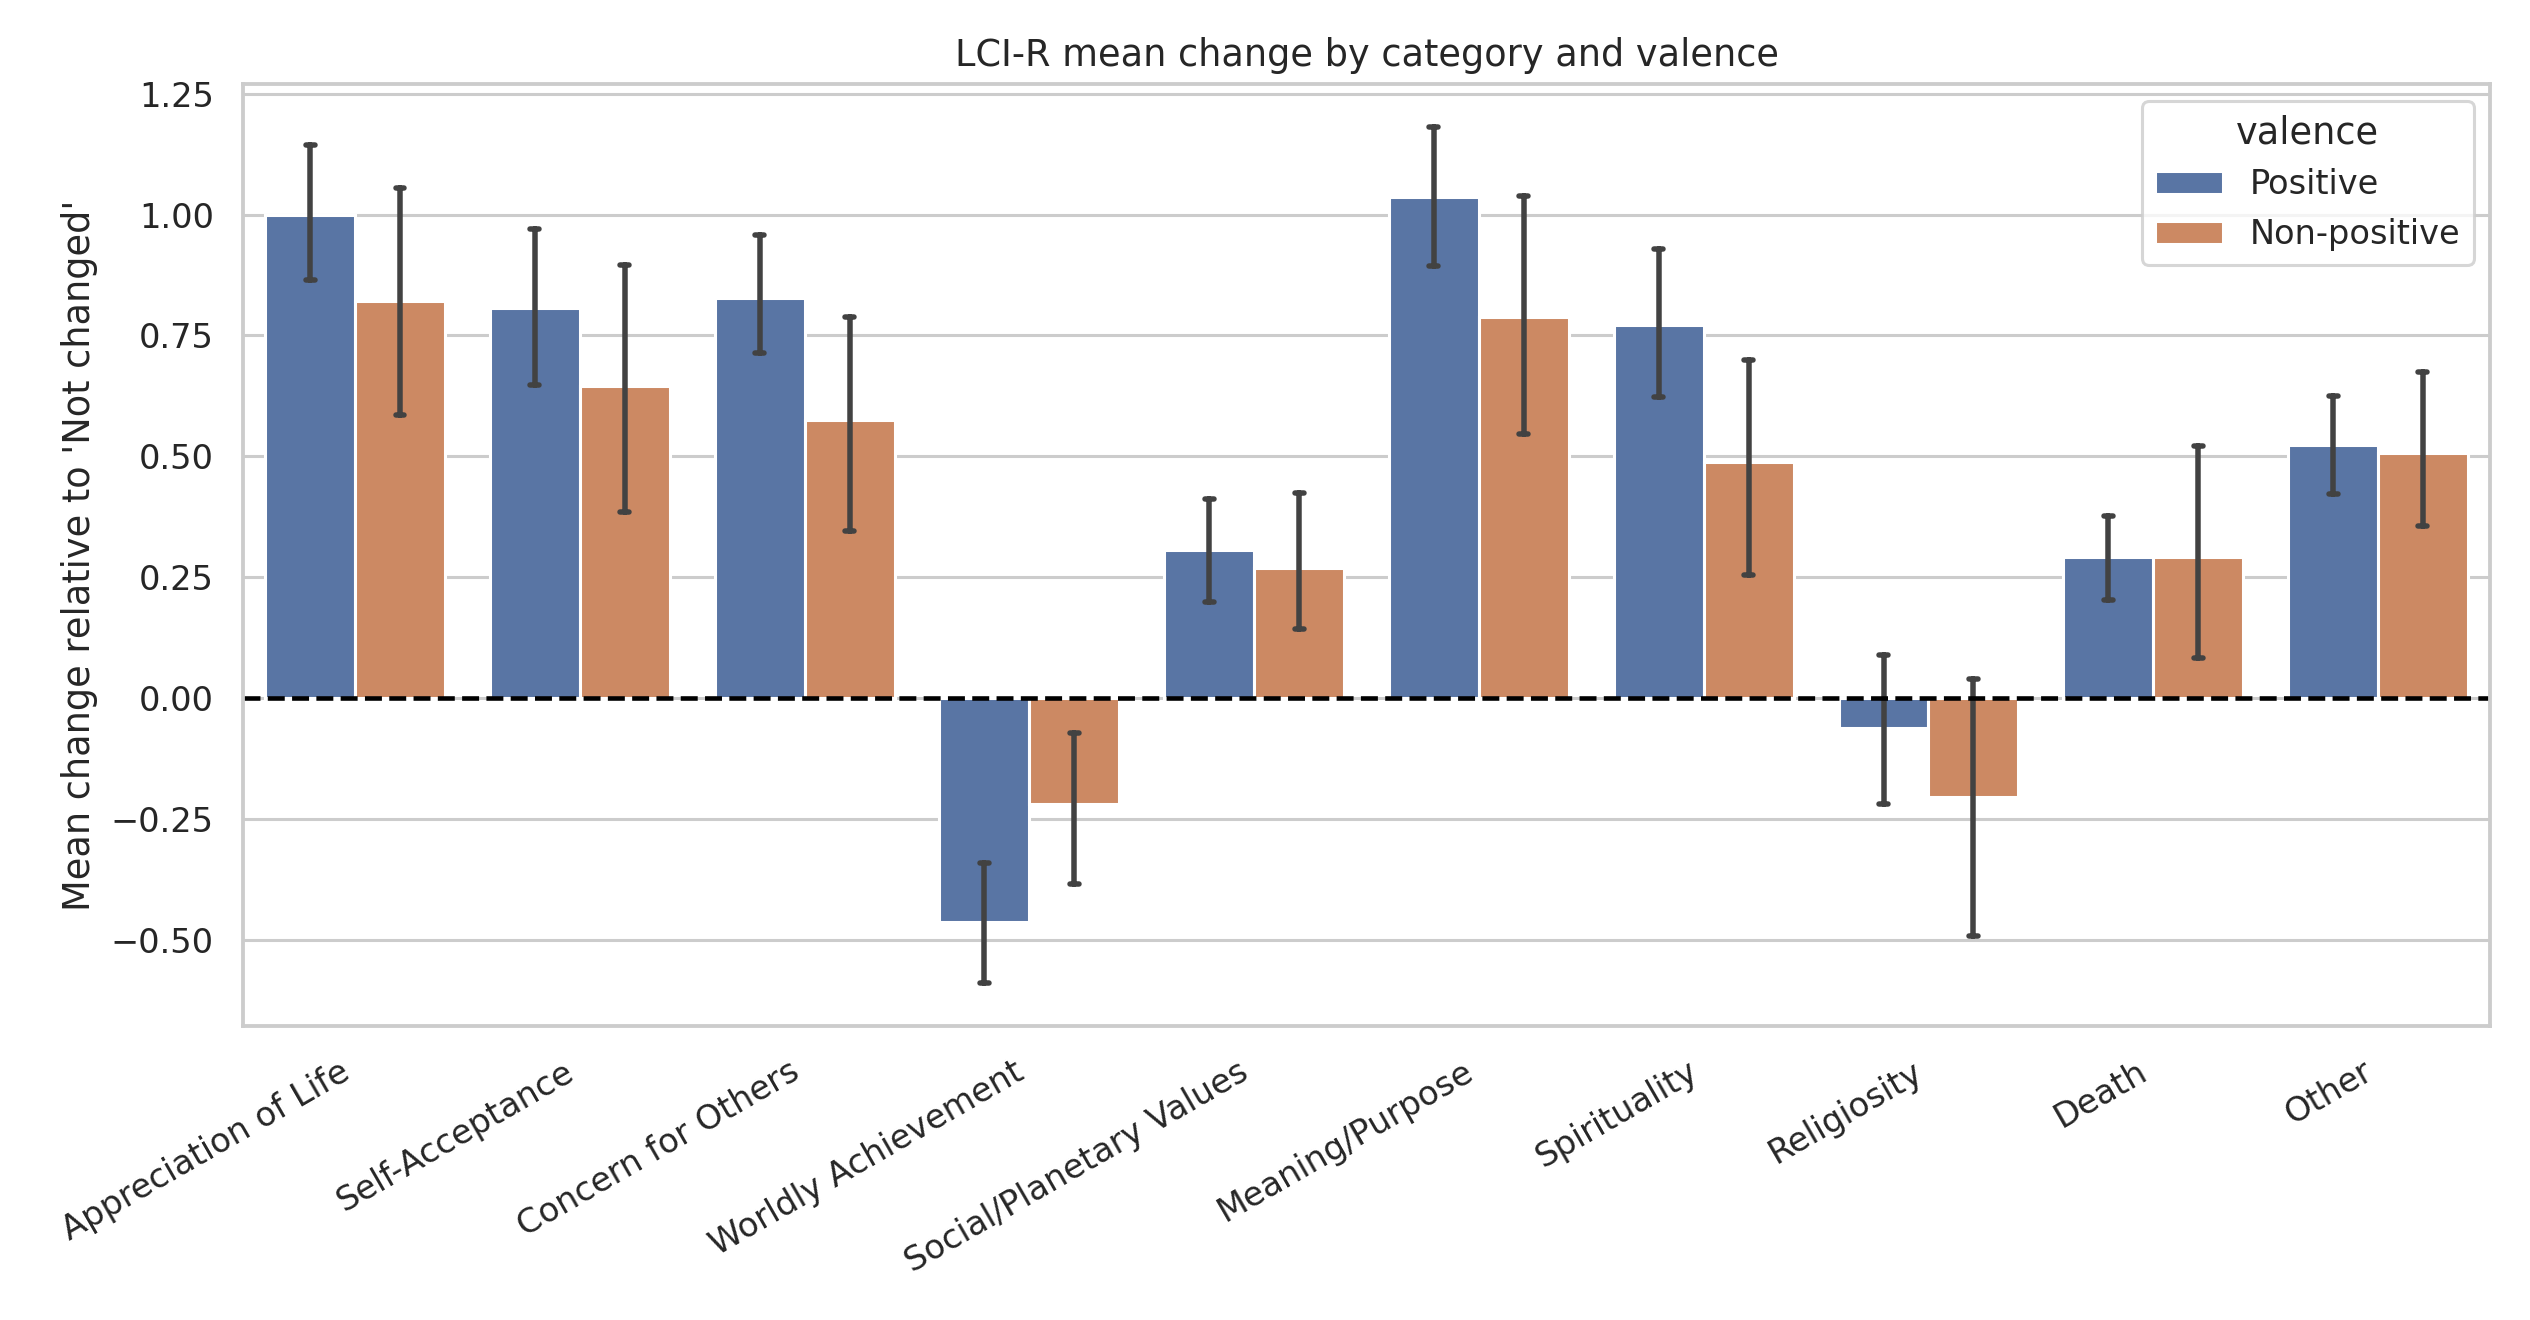
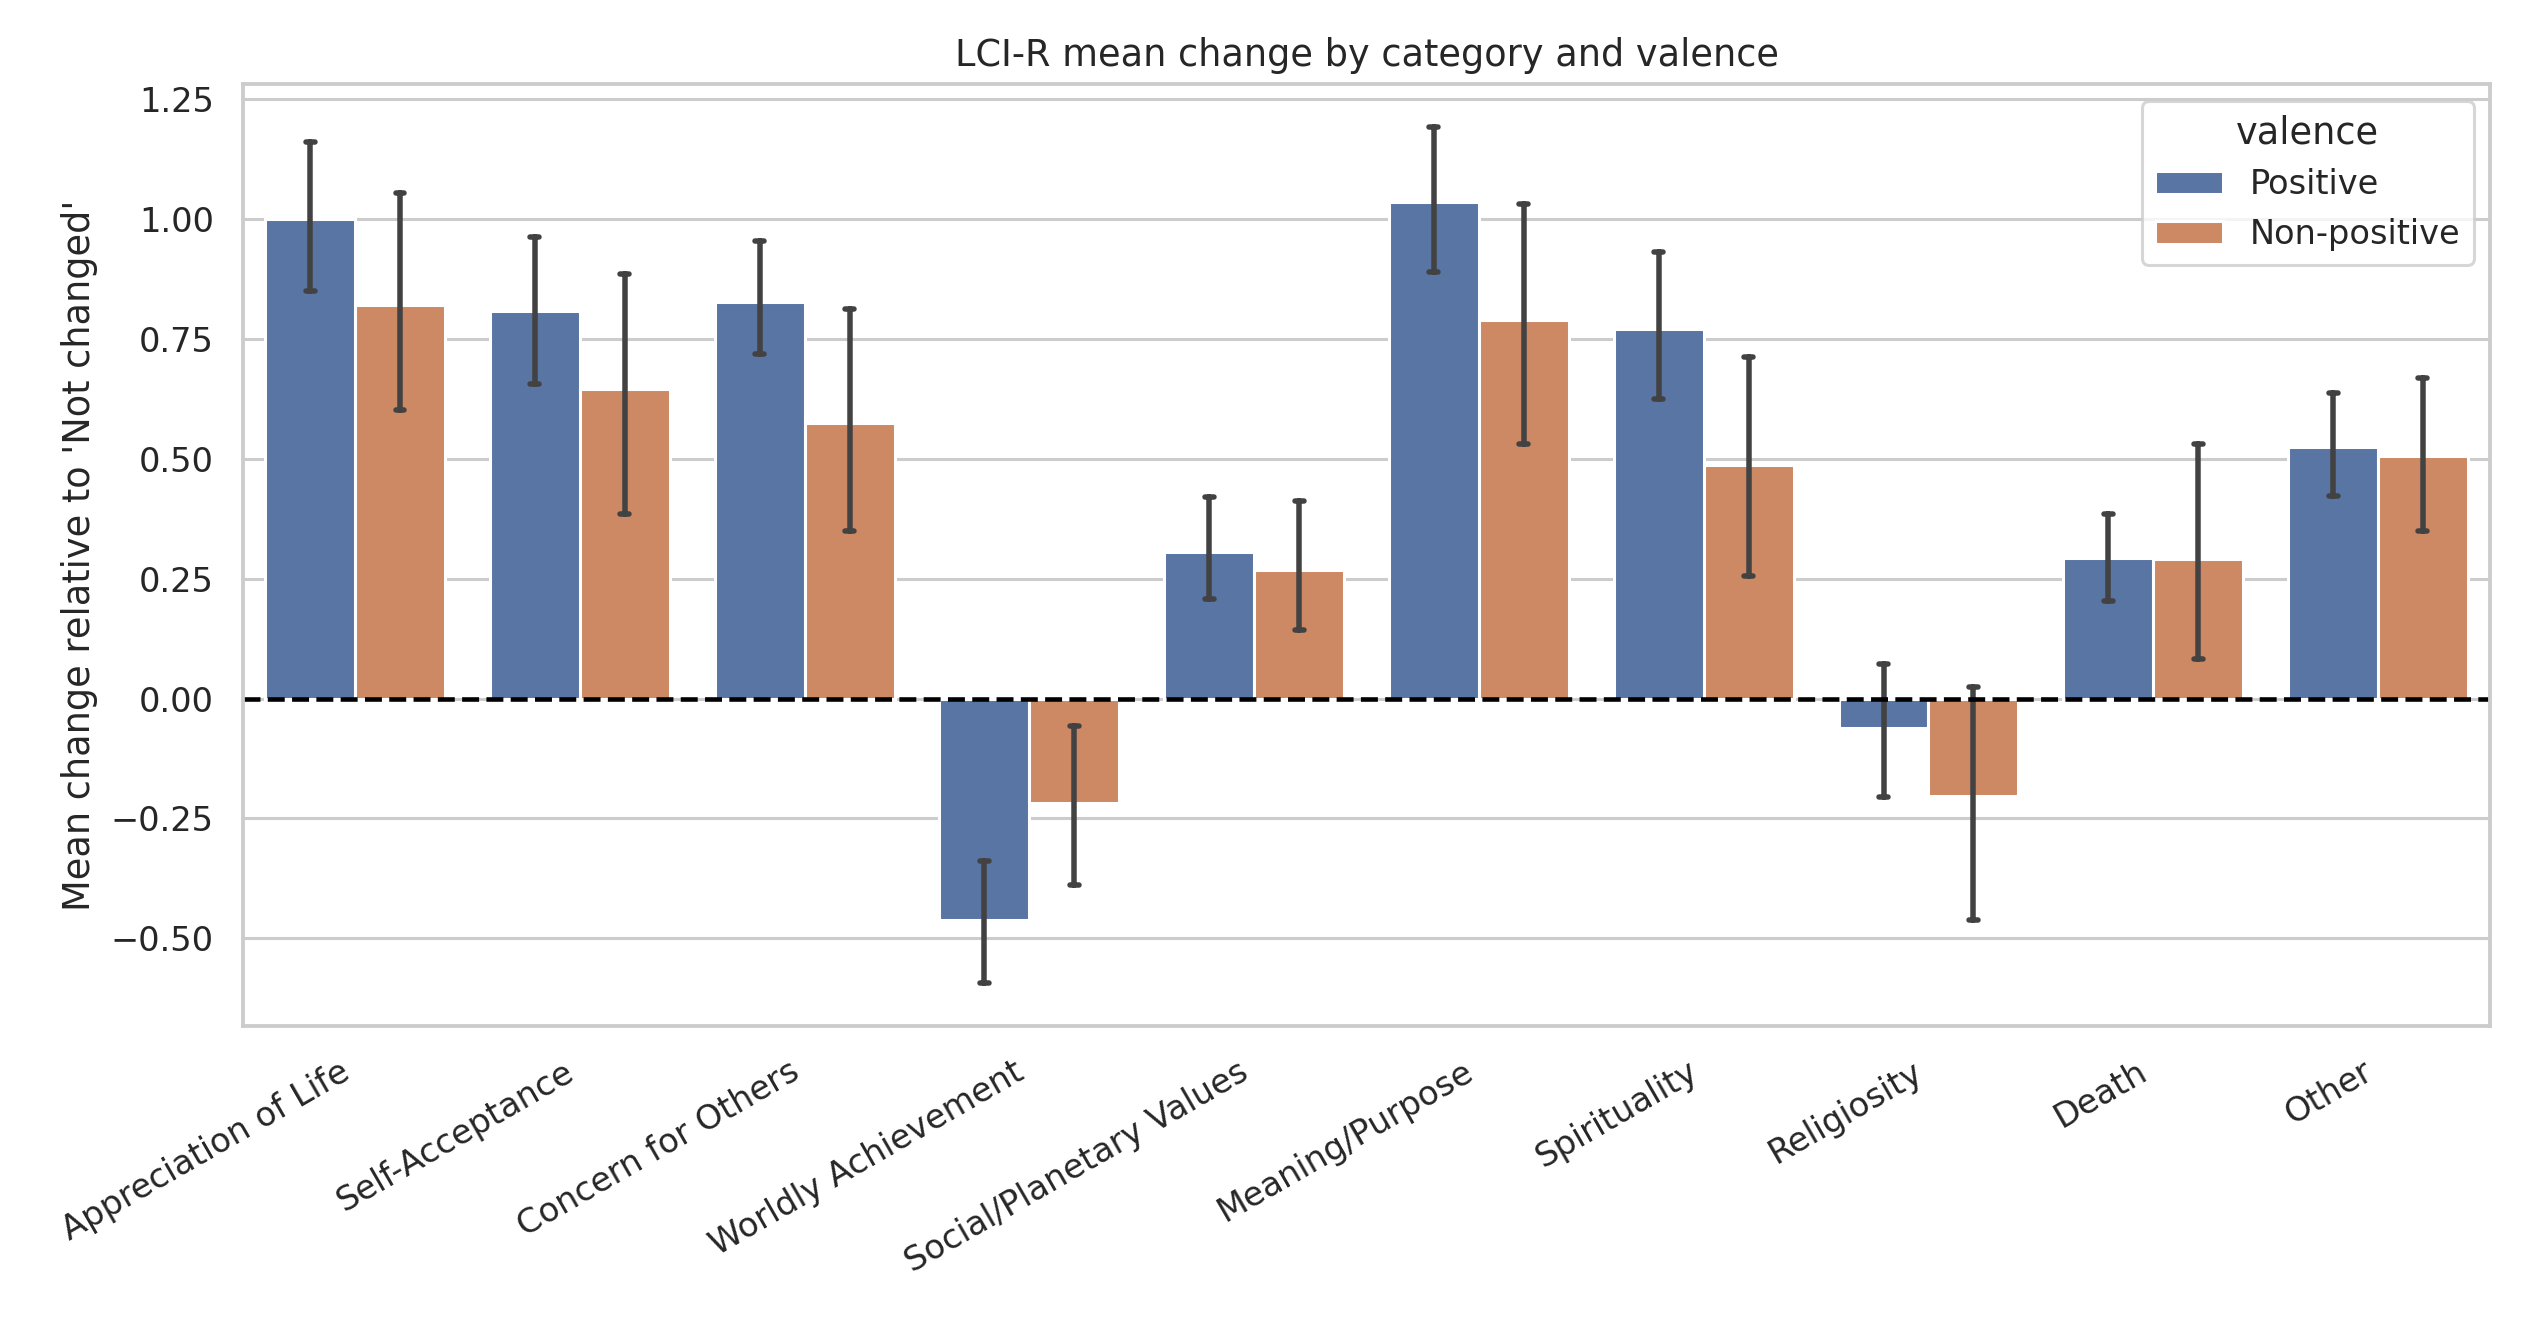
fix(diagnostics): include greyson covariate

diff --git a/src/nde_analysis/cli.py b/src/nde_analysis/cli.py
@@ -419,6 +419,7 @@ def run_post_effects_pipeline(
         "age_first_NDE",
         "CTQ_IM_SCORE",
         "education_ord",
+        "greyson_total_no_affective",
         "dx_prior_NDE_Yes",
     ] + sorted(c for c in prep.analysis_df.columns if c.startswith("death_context_nature_"))
     plot_covariate_kde_grid(
@@ -634,7 +635,7 @@ def run_post_effects_pipeline(
     if covariate_complete_case:
         analysis_sample_desc = (
             "complete-case intersection across `valence_binary`, `sex_Male`, "
-            "`age_first_NDE`, `CTQ_IM_SCORE`, `education_ord`, `dx_prior_NDE_Yes`, "
+            "`age_first_NDE`, `CTQ_IM_SCORE`, `education_ord`, `greyson_total_no_affective`, `dx_prior_NDE_Yes`, "
             "and death-context dummy covariates."
         )
     else:

diff --git a/src/nde_analysis/analysis/diagnostics.py b/src/nde_analysis/analysis/diagnostics.py
@@ -30,6 +30,7 @@ def build_covariate_diagnostics(
         "age_first_NDE",
         "CTQ_IM_SCORE",
         "education_ord",
+        "greyson_total_no_affective",
         "dx_prior_NDE_Yes",
     ] + death_context_vars
 

diff --git a/outputs/latest/main/reports/04_covariate_diagnostics_report.md b/outputs/latest/main/reports/04_covariate_diagnostics_report.md
@@ -22,6 +22,7 @@ Evaluate covariate overlap and group balance between positive and non-positive v
                                  age_first_NDE 122 36.557 16.921
                                   CTQ_IM_SCORE 122 24.984  8.200
                                  education_ord 122  2.713  1.040
+                    greyson_total_no_affective 122 10.590  4.585
                               dx_prior_NDE_Yes 122  0.098  0.299
 death_context_nature_objective_medical_context 122  0.746  0.437
    death_context_nature_subjective_threat_only 122  0.057  0.234
@@ -44,6 +45,8 @@ sex_Male Female/other baseline   57.377 122
                                   CTQ_IM_SCORE     Positive     90 25.489 8.226  23.500 14.000 48.000
                                  education_ord Non-positive     32  2.375 1.185   3.000  0.000  4.000
                                  education_ord     Positive     90  2.833 0.963   3.000  0.000  4.000
+                    greyson_total_no_affective Non-positive     32 -0.184 0.674  -0.129 -1.443  1.185
+                    greyson_total_no_affective     Positive     90  0.065 1.094  -0.020 -1.881  2.718
                               dx_prior_NDE_Yes Non-positive     32  0.062 0.246   0.000  0.000  1.000
                               dx_prior_NDE_Yes     Positive     90  0.111 0.316   0.000  0.000  1.000
 death_context_nature_objective_medical_context Non-positive     32  0.875 0.336   1.000  0.000  1.000
@@ -56,11 +59,12 @@ death_context_nature_objective_medical_context     Positive     90  0.700 0.461 
 
 ```
                                       variable               type  p_value  mean_positive  mean_non_positive  p_value_fdr p_value_fdr_reject
-                                 education_ord continuous/ordinal    0.049          2.833              2.375        0.183                 No
-death_context_nature_objective_medical_context continuous/ordinal    0.052          0.700              0.875        0.183                 No
-                                  CTQ_IM_SCORE continuous/ordinal    0.229         25.489             23.562        0.534                 No
-                              dx_prior_NDE_Yes continuous/ordinal    0.433          0.111              0.062        0.758                 No
-                                 age_first_NDE continuous/ordinal    0.671          0.019             -0.053        0.939                 No
+                                 education_ord continuous/ordinal    0.049          2.833              2.375        0.209                 No
+death_context_nature_objective_medical_context continuous/ordinal    0.052          0.700              0.875        0.209                 No
+                                  CTQ_IM_SCORE continuous/ordinal    0.229         25.489             23.562        0.610                 No
+                    greyson_total_no_affective continuous/ordinal    0.336          0.065             -0.184        0.671                 No
+                              dx_prior_NDE_Yes continuous/ordinal    0.433          0.111              0.062        0.693                 No
+                                 age_first_NDE continuous/ordinal    0.671          0.019             -0.053        0.894                 No
    death_context_nature_subjective_threat_only continuous/ordinal    0.891          0.056              0.062        0.954                 No
                                       sex_Male        categorical    0.954          0.433              0.406        0.954                 No
 ```
